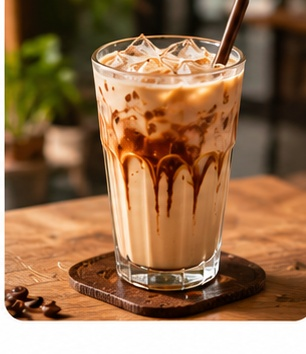
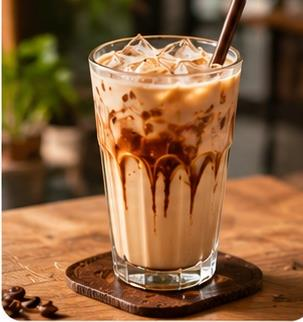
Improve mobile responsiveness and organise project structure

diff --git a/src/components/Header.jsx b/src/components/Header.jsx
@@ -4,7 +4,8 @@ import { motion, AnimatePresence } from 'framer-motion';
 
 /**
  * Header Component
- * Sticky navigation with brand identity, smooth scrolling, and mobile drawer.
+ * Sticky navigation with brand identity, guaranteed mobile navigation,
+ * smooth scrolling, and mobile drawer.
  * Section order: Home -> About -> Menu -> Contact
  */
 export default function Header({ activeSection }) {
@@ -39,14 +40,31 @@ export default function Header({ activeSection }) {
     { name: 'Contact', href: '#contact', subtitle: 'Chennai' },
   ];
 
-  // Smooth scroll handler with header offset
-  const handleNavClick = (e, href) => {
-    e.preventDefault();
+  /**
+   * Robust smooth scroll handler for both mobile & desktop.
+   * Calculates exact target position taking sticky header into account.
+   * Small timeout ensures mobile menu drawer animation does not cancel smooth scroll.
+   */
+  const scrollToSection = (targetHref) => {
+    // Close mobile menu first
     setMobileMenuOpen(false);
-    const target = document.querySelector(href);
-    if (target) {
-      target.scrollIntoView({ behavior: 'smooth' });
-    }
+
+    const id = targetHref.replace('#', '');
+    const element = document.getElementById(id);
+    if (!element) return;
+
+    // Small delay allows mobile drawer to collapse without aborting browser scroll
+    setTimeout(() => {
+      const header = document.querySelector('header');
+      const headerHeight = header ? header.getBoundingClientRect().height : 70;
+      const elementTop = element.getBoundingClientRect().top + window.pageYOffset;
+      const targetPosition = Math.max(0, elementTop - headerHeight - 12);
+
+      window.scrollTo({
+        top: targetPosition,
+        behavior: 'smooth'
+      });
+    }, 80);
   };
 
   return (
@@ -59,11 +77,11 @@ export default function Header({ activeSection }) {
     >
       <div className="max-w-7xl mx-auto px-4 sm:px-6 lg:px-8">
         <div className="flex items-center justify-between gap-2 sm:gap-4">
-          {/* Brand Logo & Name (Touch target >= 44px) */}
-          <a
-            href="#home"
-            onClick={(e) => handleNavClick(e, '#home')}
-            className="flex items-center gap-2 sm:gap-3 group transition-transform duration-200 active:scale-95 shrink-0 cursor-pointer min-h-[44px]"
+          {/* Brand Logo & Name */}
+          <button
+            type="button"
+            onClick={() => scrollToSection('#home')}
+            className="flex items-center gap-2 sm:gap-3 group transition-transform duration-200 active:scale-95 shrink-0 cursor-pointer min-h-[44px] text-left bg-transparent border-none p-0"
             aria-label="The Daily Brew - Home"
           >
             {/* 06_alternate_logo.jpg: Preserved uncropped with rounded badge & object-contain */}
@@ -82,18 +100,18 @@ export default function Header({ activeSection }) {
                 Café & Roastery · Chennai
               </span>
             </div>
-          </a>
+          </button>
 
-          {/* Desktop Navigation: Home | About | Menu | Contact with Framer Motion sliding pill indicator */}
+          {/* Desktop Navigation: Home | About | Menu | Contact */}
           <nav className="hidden md:flex items-center gap-1 lg:gap-1.5 p-1 bg-[#E8D8C3]/35 rounded-full border border-[#183D32]/8" aria-label="Main Navigation">
             {navLinks.map((link) => {
               const isActive = activeSection === link.href.substring(1);
               return (
-                <a
+                <button
                   key={link.name}
-                  href={link.href}
-                  onClick={(e) => handleNavClick(e, link.href)}
-                  className={`relative px-4 py-2 text-xs sm:text-sm font-medium tracking-wide transition-colors duration-200 rounded-full cursor-pointer z-10 ${
+                  type="button"
+                  onClick={() => scrollToSection(link.href)}
+                  className={`relative px-4 py-2 text-xs sm:text-sm font-medium tracking-wide transition-colors duration-200 rounded-full cursor-pointer z-10 border-none bg-transparent ${
                     isActive
                       ? 'text-[#FAF5ED] font-semibold'
                       : 'text-[#30251F] hover:text-[#183D32] hover:bg-[#FAF5ED]/50'
@@ -107,21 +125,21 @@ export default function Header({ activeSection }) {
                       transition={{ type: 'spring', stiffness: 400, damping: 32 }}
                     />
                   )}
-                </a>
+                </button>
               );
             })}
           </nav>
 
           {/* Desktop Right CTA Pill */}
           <div className="hidden lg:flex items-center gap-3">
-            <a
-              href="#menu"
-              onClick={(e) => handleNavClick(e, '#menu')}
-              className="inline-flex items-center gap-2 px-5 py-2.5 text-xs font-semibold uppercase tracking-wider text-[#FAF5ED] bg-[#C66A42] hover:bg-[#A54F2A] active:scale-[0.98] rounded-full transition-all duration-200 shadow-sm hover:shadow-md cursor-pointer min-h-[40px]"
+            <button
+              type="button"
+              onClick={() => scrollToSection('#menu')}
+              className="inline-flex items-center gap-2 px-5 py-2.5 text-xs font-semibold uppercase tracking-wider text-[#FAF5ED] bg-[#C66A42] hover:bg-[#A54F2A] active:scale-[0.98] rounded-full transition-all duration-200 shadow-sm hover:shadow-md cursor-pointer min-h-[40px] border-none"
             >
               <Coffee className="w-3.5 h-3.5" />
               <span>Explore Our Menu</span>
-            </a>
+            </button>
           </div>
 
           {/* Mobile Menu Button (Accessible touch target >= 44px) */}
@@ -129,7 +147,7 @@ export default function Header({ activeSection }) {
             <button
               onClick={() => setMobileMenuOpen(!mobileMenuOpen)}
               type="button"
-              className="p-2.5 min-w-[44px] min-h-[44px] rounded-xl text-[#183D32] hover:bg-[#183D32]/10 active:scale-95 transition-all flex items-center justify-center cursor-pointer"
+              className="p-2.5 min-w-[44px] min-h-[44px] rounded-xl text-[#183D32] hover:bg-[#183D32]/10 active:scale-95 transition-all flex items-center justify-center cursor-pointer border-none bg-transparent"
               aria-expanded={mobileMenuOpen}
               aria-label="Toggle navigation menu"
             >
@@ -139,47 +157,47 @@ export default function Header({ activeSection }) {
         </div>
       </div>
 
-      {/* Mobile Navigation Drawer with AnimatePresence */}
+      {/* Mobile Navigation Drawer with Guaranteed Functionality */}
       <AnimatePresence>
         {mobileMenuOpen && (
           <motion.div
             initial={{ opacity: 0, height: 0 }}
             animate={{ opacity: 1, height: 'auto' }}
             exit={{ opacity: 0, height: 0 }}
-            transition={{ duration: 0.25, ease: [0.16, 1, 0.3, 1] }}
-            className="md:hidden overflow-hidden border-t border-[#183D32]/10 mt-2 bg-[#FAF5ED]/98 backdrop-blur-xl shadow-2xl max-h-[calc(100vh-76px)] overflow-y-auto"
+            transition={{ duration: 0.2, ease: [0.16, 1, 0.3, 1] }}
+            className="md:hidden overflow-hidden border-t border-[#183D32]/10 mt-2 bg-[#FAF5ED] shadow-2xl relative z-50 pointer-events-auto max-h-[calc(100vh-76px)] overflow-y-auto"
           >
             <div className="max-w-7xl mx-auto px-4 py-3 flex flex-col gap-1.5">
               {navLinks.map((link) => {
                 const isActive = activeSection === link.href.substring(1);
                 return (
-                  <a
+                  <button
                     key={link.name}
-                    href={link.href}
-                    onClick={(e) => handleNavClick(e, link.href)}
-                    className={`flex items-center justify-between px-4 py-3 min-h-[48px] rounded-xl text-base font-medium transition-all duration-150 active:scale-[0.98] ${
+                    type="button"
+                    onClick={() => scrollToSection(link.href)}
+                    className={`w-full flex items-center justify-between px-4 py-3.5 min-h-[48px] rounded-xl text-base font-medium transition-all duration-150 active:scale-[0.98] cursor-pointer text-left border-none ${
                       isActive
                         ? 'bg-[#183D32] text-[#FAF5ED]'
-                        : 'text-[#30251F] hover:bg-[#183D32]/8'
+                        : 'text-[#30251F] bg-transparent hover:bg-[#183D32]/8'
                     }`}
                   >
                     <span className="font-serif font-semibold">{link.name}</span>
                     <span className={`text-xs ${isActive ? 'text-[#FAF5ED]/80' : 'text-[#66554B]'}`}>
                       {link.subtitle}
                     </span>
-                  </a>
+                  </button>
                 );
               })}
 
               <div className="pt-2 pb-1 border-t border-[#183D32]/10 mt-1">
-                <a
-                  href="#menu"
-                  onClick={(e) => handleNavClick(e, '#menu')}
-                  className="w-full flex items-center justify-center gap-2 py-3.5 min-h-[48px] text-xs font-semibold uppercase tracking-wider text-[#FAF5ED] bg-[#C66A42] hover:bg-[#A54F2A] active:scale-[0.98] rounded-xl shadow-sm transition-all cursor-pointer"
+                <button
+                  type="button"
+                  onClick={() => scrollToSection('#menu')}
+                  className="w-full flex items-center justify-center gap-2 py-3.5 min-h-[48px] text-xs font-semibold uppercase tracking-wider text-[#FAF5ED] bg-[#C66A42] hover:bg-[#A54F2A] active:scale-[0.98] rounded-xl shadow-sm transition-all cursor-pointer border-none"
                 >
                   <Coffee className="w-4 h-4" />
                   <span>Explore Our Menu</span>
-                </a>
+                </button>
               </div>
             </div>
           </motion.div>

diff --git a/src/components/Footer.jsx b/src/components/Footer.jsx
@@ -18,12 +18,17 @@ export default function Footer() {
     { name: 'Contact', href: '#contact' },
   ];
 
-  const handleNavClick = (e, href) => {
-    e.preventDefault();
-    const target = document.querySelector(href);
-    if (target) {
-      target.scrollIntoView({ behavior: 'smooth' });
-    }
+  const scrollToSection = (targetHref) => {
+    const id = targetHref.replace('#', '');
+    const element = document.getElementById(id);
+    if (!element) return;
+    const header = document.querySelector('header');
+    const headerHeight = header ? header.getBoundingClientRect().height : 70;
+    const elementTop = element.getBoundingClientRect().top + window.pageYOffset;
+    window.scrollTo({
+      top: Math.max(0, elementTop - headerHeight - 12),
+      behavior: 'smooth'
+    });
   };
 
   return (
@@ -32,10 +37,10 @@ export default function Footer() {
         <div className="grid grid-cols-1 md:grid-cols-12 gap-8 sm:gap-10 pb-8 sm:pb-10 border-b border-white/10 items-start">
           {/* Brand Info & 06_alternate_logo.jpg */}
           <div className="md:col-span-5 space-y-3.5">
-            <a
-              href="#home"
-              onClick={(e) => handleNavClick(e, '#home')}
-              className="inline-flex items-center gap-3 group cursor-pointer min-h-[44px]"
+            <button
+              type="button"
+              onClick={() => scrollToSection('#home')}
+              className="inline-flex items-center gap-3 group cursor-pointer min-h-[44px] text-left border-none bg-transparent p-0"
             >
               <div className="w-11 h-11 sm:w-12 sm:h-12 rounded-xl overflow-hidden border border-[#C66A42]/50 bg-[#FAF5ED] shadow-sm p-0.5 flex items-center justify-center shrink-0 group-hover:border-[#C66A42] transition-colors">
                 <img
@@ -52,7 +57,7 @@ export default function Footer() {
                   Good Coffee. Good Food. Good Moments.
                 </span>
               </div>
-            </a>
+            </button>
 
             <p className="text-xs sm:text-sm text-[#FAF5ED]/75 max-w-sm leading-relaxed">
               Chennai’s destination for artisanal coffee, fresh gourmet bites, and heartfelt moments of recharge and connection.
@@ -67,13 +72,13 @@ export default function Footer() {
             <ul className="space-y-1.5 sm:space-y-2">
               {navLinks.map((link) => (
                 <li key={link.name}>
-                  <a
-                    href={link.href}
-                    onClick={(e) => handleNavClick(e, link.href)}
-                    className="text-xs sm:text-sm text-[#FAF5ED]/80 hover:text-[#C66A42] active:scale-95 transition-all py-1 inline-block cursor-pointer min-h-[32px] flex items-center"
+                  <button
+                    type="button"
+                    onClick={() => scrollToSection(link.href)}
+                    className="text-xs sm:text-sm text-[#FAF5ED]/80 hover:text-[#C66A42] active:scale-95 transition-all py-1 inline-flex items-center cursor-pointer min-h-[32px] border-none bg-transparent p-0"
                   >
                     {link.name}
-                  </a>
+                  </button>
                 </li>
               ))}
             </ul>
@@ -118,7 +123,8 @@ export default function Footer() {
 
           <button
             onClick={scrollToTop}
-            className="inline-flex items-center gap-2 px-4 py-2 min-h-[44px] rounded-full bg-white/5 hover:bg-white/10 active:scale-95 text-[#FAF5ED] text-xs font-medium transition-all cursor-pointer shadow-sm hover:shadow"
+            type="button"
+            className="inline-flex items-center gap-2 px-4 py-2 min-h-[44px] rounded-full bg-white/5 hover:bg-white/10 active:scale-95 text-[#FAF5ED] text-xs font-medium transition-all cursor-pointer shadow-sm hover:shadow border-none"
             aria-label="Back to top"
           >
             <span>Back to top</span>

diff --git a/src/components/Menu.jsx b/src/components/Menu.jsx
@@ -12,6 +12,10 @@ import QuickViewModal from './QuickViewModal';
  * - Cold Coffee – ₹180 (Image 3)
  * - Classic Sandwich – ₹120 (Image 4)
  * - Chocolate Brownie – ₹100 (Image 5)
+ * 
+ * Image Alignment & Sizing:
+ * Uniform aspect-square containers with edge-to-edge object-cover,
+ * eliminating all white strips, gaps, and inconsistent sizing.
  */
 export default function Menu() {
   const [activeFilter, setActiveFilter] = useState('All');
@@ -85,7 +89,7 @@ export default function Menu() {
           </div>
         </motion.div>
 
-        {/* 4 Compulsory Menu Items Grid with Staggered Scroll Animations */}
+        {/* 4 Compulsory Menu Items Grid with Uniform Sizing & Alignment */}
         <div className="grid grid-cols-1 sm:grid-cols-2 lg:grid-cols-4 gap-5 sm:gap-6 lg:gap-8">
           {filteredItems.map((item, index) => (
             <motion.div
@@ -96,8 +100,8 @@ export default function Menu() {
               transition={{ duration: 0.5, delay: index * 0.1, ease: [0.16, 1, 0.3, 1] }}
               className="group bg-[#FDFBF7] rounded-2xl sm:rounded-3xl overflow-hidden border border-[#183D32]/12 shadow-sm hover:shadow-xl hover:-translate-y-1.5 transition-all duration-300 flex flex-col justify-between"
             >
-              {/* Image Container with Natural Aspect Ratio matching ~4/4.6 */}
-              <div className="relative aspect-[4/4.6] w-full overflow-hidden bg-[#F5EBDD]/60 flex items-center justify-center">
+              {/* Image Container: Consistent Aspect-Square Framing Across All Cards */}
+              <div className="relative aspect-square w-full overflow-hidden bg-[#FAF5ED] flex items-center justify-center">
                 <img
                   src={item.image}
                   alt={item.name}

diff --git a/src/components/Hero.jsx b/src/components/Hero.jsx
@@ -13,18 +13,28 @@ import { motion } from 'framer-motion';
 export default function Hero() {
   const scrollToMenu = (e) => {
     e.preventDefault();
-    const menuSection = document.querySelector('#menu');
-    if (menuSection) {
-      menuSection.scrollIntoView({ behavior: 'smooth' });
-    }
+    const element = document.getElementById('menu');
+    if (!element) return;
+    const header = document.querySelector('header');
+    const headerHeight = header ? header.getBoundingClientRect().height : 70;
+    const elementTop = element.getBoundingClientRect().top + window.pageYOffset;
+    window.scrollTo({
+      top: Math.max(0, elementTop - headerHeight - 12),
+      behavior: 'smooth'
+    });
   };
 
   const scrollToAbout = (e) => {
     e.preventDefault();
-    const aboutSection = document.querySelector('#about');
-    if (aboutSection) {
-      aboutSection.scrollIntoView({ behavior: 'smooth' });
-    }
+    const element = document.getElementById('about');
+    if (!element) return;
+    const header = document.querySelector('header');
+    const headerHeight = header ? header.getBoundingClientRect().height : 70;
+    const elementTop = element.getBoundingClientRect().top + window.pageYOffset;
+    window.scrollTo({
+      top: Math.max(0, elementTop - headerHeight - 12),
+      behavior: 'smooth'
+    });
   };
 
   return (

diff --git a/src/components/About.jsx b/src/components/About.jsx
@@ -11,10 +11,15 @@ import { motion } from 'framer-motion';
 export default function About() {
   const scrollToMenu = (e) => {
     e.preventDefault();
-    const menuSection = document.querySelector('#menu');
-    if (menuSection) {
-      menuSection.scrollIntoView({ behavior: 'smooth' });
-    }
+    const element = document.getElementById('menu');
+    if (!element) return;
+    const header = document.querySelector('header');
+    const headerHeight = header ? header.getBoundingClientRect().height : 70;
+    const elementTop = element.getBoundingClientRect().top + window.pageYOffset;
+    window.scrollTo({
+      top: Math.max(0, elementTop - headerHeight - 12),
+      behavior: 'smooth'
+    });
   };
 
   const pillars = [
